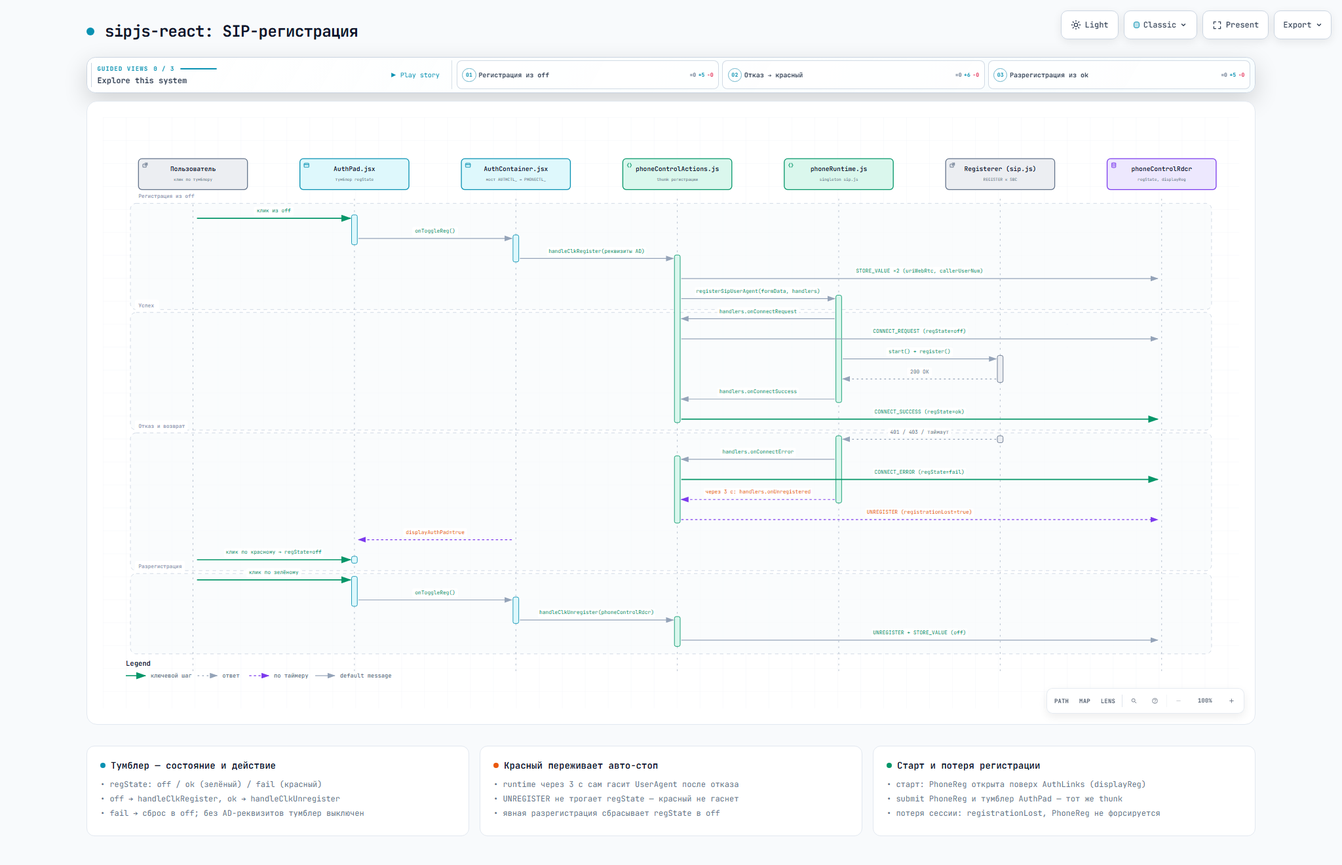
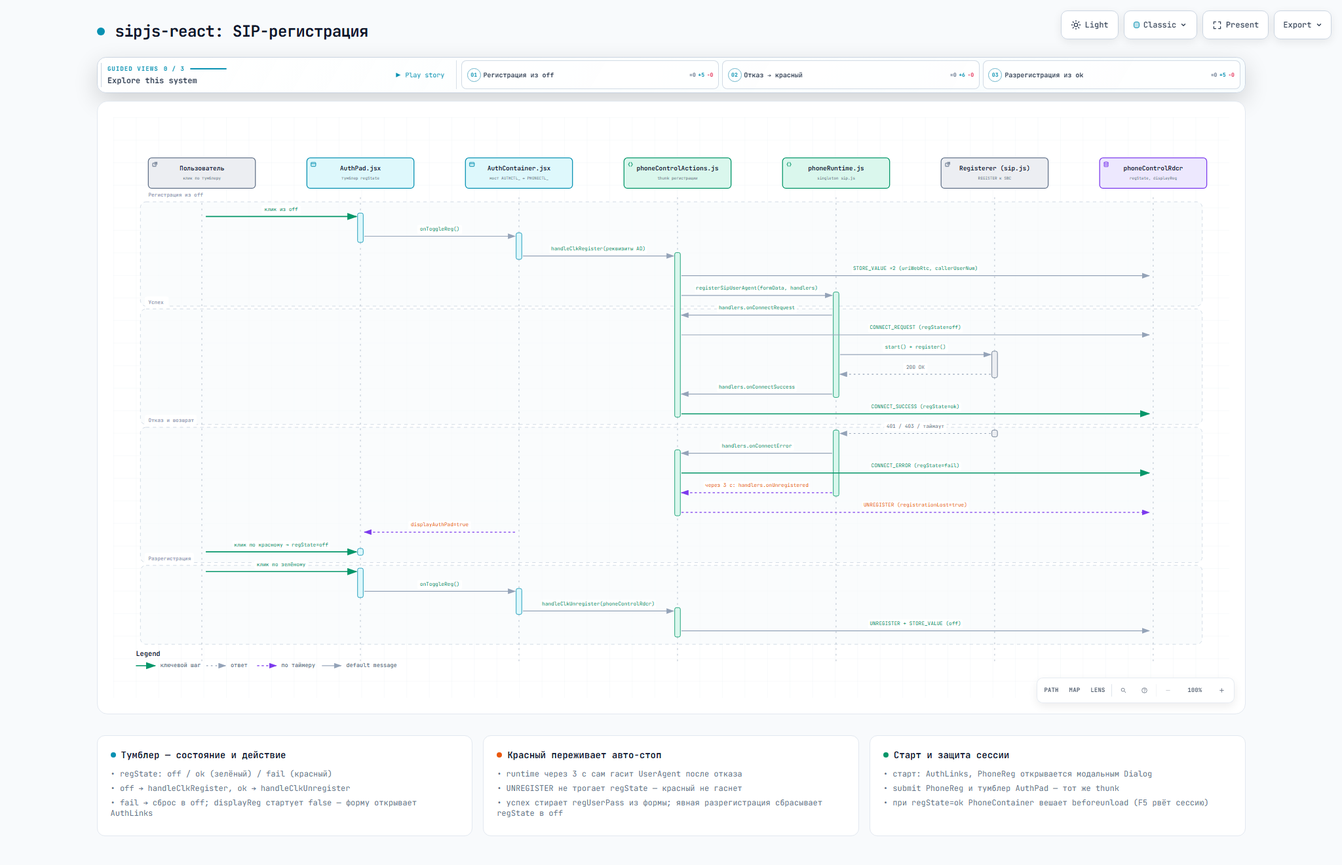
пофиксил диаграмму доку

diff --git a/docs/archify/sipjs-react-architecture.html b/docs/archify/sipjs-react-architecture.html
@@ -4840,8 +4840,8 @@
       </div>
     </div>
 
-    <script id="archify-guided-views-data" type="application/json">[{"id":"main-flow","label":"Основной поток данных","focus":["users","ui","containers","actions","runtime","sbc"],"note":"События UI проходят контейнеры и thunk-и, SIP-операции уходят в phoneRuntime и на SIP SBC по WSS."},{"id":"ad-bridge","label":"Мост AD → SIP","focus":["ad","actions","containers","store","ui"],"note":"AuthLinks открывает обе формы входа; AuthContainer — мост AUTHCTL_ ↔ PHONECTL_, тумблер AuthPad отражает regState (off / ok / fail)."},{"id":"livekit-path","label":"Ветка LiveKit","focus":["actions","ui","lkRuntime","livekit"],"note":"handleLkTokenSubmit берёт lk_token, LkMeet через lkRuntime подключается к комнате LiveKit."},{"id":"state-and-storage","label":"Состояние и хранилища","focus":["store","storage","actions","runtime"],"note":"Слой store собирает сид из сервисов, Redux хранит UI-состояние, звонки и чат персистятся в localStorage."}]</script>
-    <script id="archify-source-evidence-data" type="application/json">{"schemaVersion":1,"verified":true,"repository":{"url":"https://github.com/ars-anosov/sipjs-react","revision":"8d453dceb0cea81775ffbc2189b6a858b2866d38","shortRevision":"8d453dc"},"referenceCount":15,"nodes":{"ui":[{"path":"src/components/AuthLinks.jsx","line":17,"label":"стартовый экран","href":"https://github.com/ars-anosov/sipjs-react/blob/8d453dceb0cea81775ffbc2189b6a858b2866d38/src/components/AuthLinks.jsx#L17"},{"path":"src/components/PhonePad.jsx","line":52,"label":"телефон","href":"https://github.com/ars-anosov/sipjs-react/blob/8d453dceb0cea81775ffbc2189b6a858b2866d38/src/components/PhonePad.jsx#L52"},{"path":"src/components/LkMeet.jsx","line":228,"label":"встреча","href":"https://github.com/ars-anosov/sipjs-react/blob/8d453dceb0cea81775ffbc2189b6a858b2866d38/src/components/LkMeet.jsx#L228"}],"containers":[{"path":"src/containers/AuthContainer.jsx","line":70,"label":"мост AUTHCTL_ ↔ PHONECTL_","href":"https://github.com/ars-anosov/sipjs-react/blob/8d453dceb0cea81775ffbc2189b6a858b2866d38/src/containers/AuthContainer.jsx#L70"},{"path":"src/containers/PhoneContainer.jsx","line":16,"label":"домен phoneControlRdcr","href":"https://github.com/ars-anosov/sipjs-react/blob/8d453dceb0cea81775ffbc2189b6a858b2866d38/src/containers/PhoneContainer.jsx#L16"}],"actions":[{"path":"src/actions/authControlActions.js","line":15,"label":"handleAdRegister","href":"https://github.com/ars-anosov/sipjs-react/blob/8d453dceb0cea81775ffbc2189b6a858b2866d38/src/actions/authControlActions.js#L15"},{"path":"src/actions/phoneControlActions.js","line":99,"label":"handleClkRegister","href":"https://github.com/ars-anosov/sipjs-react/blob/8d453dceb0cea81775ffbc2189b6a858b2866d38/src/actions/phoneControlActions.js#L99"},{"path":"src/actions/phoneControlActions.js","line":434,"label":"SIP MESSAGE","href":"https://github.com/ars-anosov/sipjs-react/blob/8d453dceb0cea81775ffbc2189b6a858b2866d38/src/actions/phoneControlActions.js#L434"}],"runtime":[{"path":"src/services/phoneRuntime.js","line":336,"label":"registerSipUserAgent","href":"https://github.com/ars-anosov/sipjs-react/blob/8d453dceb0cea81775ffbc2189b6a858b2866d38/src/services/phoneRuntime.js#L336"}],"store":[{"path":"src/store/preloadedState.js","line":14,"label":"сид из сервисов","href":"https://github.com/ars-anosov/sipjs-react/blob/8d453dceb0cea81775ffbc2189b6a858b2866d38/src/store/preloadedState.js#L14"},{"path":"src/store/configureStore.js","line":21,"label":"thunk + logger","href":"https://github.com/ars-anosov/sipjs-react/blob/8d453dceb0cea81775ffbc2189b6a858b2866d38/src/store/configureStore.js#L21"}],"storage":[{"path":"src/services/phoneStorage.js","line":15,"label":"настройки телефона","href":"https://github.com/ars-anosov/sipjs-react/blob/8d453dceb0cea81775ffbc2189b6a858b2866d38/src/services/phoneStorage.js#L15"}],"ad":[{"path":"src/services/adAuth.js","line":41,"label":"loginAd → POST uriAdAuth","href":"https://github.com/ars-anosov/sipjs-react/blob/8d453dceb0cea81775ffbc2189b6a858b2866d38/src/services/adAuth.js#L41"}],"dir":[{"path":"src/services/phoneDirectory.js","line":11,"label":"fetchPhoneDir","href":"https://github.com/ars-anosov/sipjs-react/blob/8d453dceb0cea81775ffbc2189b6a858b2866d38/src/services/phoneDirectory.js#L11"}],"lkRuntime":[{"path":"src/services/lkRuntime.js","line":5,"label":"getLiveKitRoom","href":"https://github.com/ars-anosov/sipjs-react/blob/8d453dceb0cea81775ffbc2189b6a858b2866d38/src/services/lkRuntime.js#L5"}]}}</script>
+    <script id="archify-guided-views-data" type="application/json">[{"id":"main-flow","label":"Основной поток данных","focus":["users","ui","containers","actions","runtime","sbc"],"note":"События UI проходят контейнеры и thunk-и, SIP-операции уходят в phoneRuntime и на SIP SBC по WSS."},{"id":"ad-bridge","label":"Мост AD → SIP","focus":["ad","actions","containers","store","ui"],"note":"AuthLinks открывает SIP-форму (displayReg); AD-форма живёт в AuthContainer — мост AUTHCTL_ ↔ PHONECTL_, тумблер AuthPad по regState."},{"id":"livekit-path","label":"Ветка LiveKit","focus":["actions","ui","lkRuntime","livekit"],"note":"handleLkTokenSubmit берёт lk_token, LkMeet через lkRuntime подключается к комнате LiveKit."},{"id":"state-and-storage","label":"Состояние и хранилища","focus":["store","storage","actions","runtime"],"note":"Слой store собирает сид из сервисов, Redux хранит UI-состояние, звонки и чат персистятся в localStorage."}]</script>
+    <script id="archify-source-evidence-data" type="application/json">{"schemaVersion":1,"verified":true,"repository":{"url":"https://github.com/ars-anosov/sipjs-react","revision":"9bebf74019c6374eb574e450f23298f3e978bed4","shortRevision":"9bebf74"},"referenceCount":15,"nodes":{"ui":[{"path":"src/components/AuthLinks.jsx","line":17,"label":"стартовый экран","href":"https://github.com/ars-anosov/sipjs-react/blob/9bebf74019c6374eb574e450f23298f3e978bed4/src/components/AuthLinks.jsx#L17"},{"path":"src/components/PhonePad.jsx","line":52,"label":"телефон","href":"https://github.com/ars-anosov/sipjs-react/blob/9bebf74019c6374eb574e450f23298f3e978bed4/src/components/PhonePad.jsx#L52"},{"path":"src/components/LkMeet.jsx","line":228,"label":"встреча","href":"https://github.com/ars-anosov/sipjs-react/blob/9bebf74019c6374eb574e450f23298f3e978bed4/src/components/LkMeet.jsx#L228"}],"containers":[{"path":"src/containers/AuthContainer.jsx","line":70,"label":"мост AUTHCTL_ ↔ PHONECTL_","href":"https://github.com/ars-anosov/sipjs-react/blob/9bebf74019c6374eb574e450f23298f3e978bed4/src/containers/AuthContainer.jsx#L70"},{"path":"src/containers/PhoneContainer.jsx","line":16,"label":"домен phoneControlRdcr","href":"https://github.com/ars-anosov/sipjs-react/blob/9bebf74019c6374eb574e450f23298f3e978bed4/src/containers/PhoneContainer.jsx#L16"}],"actions":[{"path":"src/actions/authControlActions.js","line":15,"label":"handleAdRegister","href":"https://github.com/ars-anosov/sipjs-react/blob/9bebf74019c6374eb574e450f23298f3e978bed4/src/actions/authControlActions.js#L15"},{"path":"src/actions/phoneControlActions.js","line":99,"label":"handleClkRegister","href":"https://github.com/ars-anosov/sipjs-react/blob/9bebf74019c6374eb574e450f23298f3e978bed4/src/actions/phoneControlActions.js#L99"},{"path":"src/actions/phoneControlActions.js","line":434,"label":"SIP MESSAGE","href":"https://github.com/ars-anosov/sipjs-react/blob/9bebf74019c6374eb574e450f23298f3e978bed4/src/actions/phoneControlActions.js#L434"}],"runtime":[{"path":"src/services/phoneRuntime.js","line":336,"label":"registerSipUserAgent","href":"https://github.com/ars-anosov/sipjs-react/blob/9bebf74019c6374eb574e450f23298f3e978bed4/src/services/phoneRuntime.js#L336"}],"store":[{"path":"src/store/preloadedState.js","line":14,"label":"сид из сервисов","href":"https://github.com/ars-anosov/sipjs-react/blob/9bebf74019c6374eb574e450f23298f3e978bed4/src/store/preloadedState.js#L14"},{"path":"src/store/configureStore.js","line":21,"label":"thunk + logger","href":"https://github.com/ars-anosov/sipjs-react/blob/9bebf74019c6374eb574e450f23298f3e978bed4/src/store/configureStore.js#L21"}],"storage":[{"path":"src/services/phoneStorage.js","line":15,"label":"настройки телефона","href":"https://github.com/ars-anosov/sipjs-react/blob/9bebf74019c6374eb574e450f23298f3e978bed4/src/services/phoneStorage.js#L15"}],"ad":[{"path":"src/services/adAuth.js","line":41,"label":"loginAd → POST uriAdAuth","href":"https://github.com/ars-anosov/sipjs-react/blob/9bebf74019c6374eb574e450f23298f3e978bed4/src/services/adAuth.js#L41"}],"dir":[{"path":"src/services/phoneDirectory.js","line":11,"label":"fetchPhoneDir","href":"https://github.com/ars-anosov/sipjs-react/blob/9bebf74019c6374eb574e450f23298f3e978bed4/src/services/phoneDirectory.js#L11"}],"lkRuntime":[{"path":"src/services/lkRuntime.js","line":5,"label":"getLiveKitRoom","href":"https://github.com/ars-anosov/sipjs-react/blob/9bebf74019c6374eb574e450f23298f3e978bed4/src/services/lkRuntime.js#L5"}]}}</script>
     <div class="guided-views no-print" id="guided-views" hidden aria-label="Guided diagram views">
       <button id="guided-view-prev" type="button" aria-label="Previous guided view" title="Previous guided view ([)">&#8592;</button>
       <div class="guided-view-copy">
@@ -5364,8 +5364,8 @@
           <h3>Стартовый экран и владение рендером</h3>
         </div>
         <ul>
-          <li>&bull; на старте displayReg=true: модальная форма SIP открыта поверх блока AuthLinks</li>
-          <li>&bull; AuthLinks виден, пока status ≠ success и regState ≠ ok; ссылки открывают формы AD и SIP</li>
+          <li>&bull; на старте displayReg=false: виден AuthLinks; клик открывает PhoneReg модальным Dialog</li>
+          <li>&bull; AuthLinks виден, пока authStatus ≠ success и regState ≠ ok; иконка AD-формы закомментирована</li>
           <li>&bull; владение по срезу: AuthContainer — AuthLinks/AuthAd/AuthPad, PhoneContainer — PhoneReg/PhonePad/PhoneHistory/PhoneChat</li>
         </ul>
       </div>
@@ -5373,12 +5373,12 @@
       <div class="card">
         <div class="card-header">
           <div class="card-dot violet"></div>
-          <h3>Мост AD → SIP и состояние</h3>
+          <h3>Мост AD → SIP и защита сессии</h3>
         </div>
         <ul>
           <li>&bull; handleAdRegister → adAuth.loginAd → POST uriAdAuth → AUTHCTL_SUBMIT_SUCCESS</li>
-          <li>&bull; тумблер AuthPad трёхпозиционный по regState (off / ok / fail)</li>
-          <li>&bull; authTimeoutMiddleware раз в 10 с проверяет AD-сессию (24 ч); ky и localStorage только в services/</li>
+          <li>&bull; тумблер AuthPad трёхпозиционный по regState (off / ok / fail); успех стирает regUserPass из формы</li>
+          <li>&bull; при regState=ok PhoneContainer вешает beforeunload: F5 рвёт SIP-сессию в памяти singleton phoneRuntime</li>
         </ul>
       </div>
     </div>

diff --git a/docs/archify/sipjs-react-sip-registration.html b/docs/archify/sipjs-react-sip-registration.html
@@ -4840,7 +4840,7 @@
       </div>
     </div>
 
-    <script id="archify-guided-views-data" type="application/json">[{"id":"start-registration","label":"Регистрация из off","focus":["user","authpad","authcont","actions","runtime"],"note":"Форма PhoneReg открыта на старте (displayReg=true); тумблер AuthPad из off запускает handleClkRegister с реквизитами AD."},{"id":"reject-and-red","label":"Отказ → красный","focus":["registerer","runtime","actions","rdcr","authcont","authpad"],"note":"Отказ даёт regState=fail; PhoneReg не форсируется, показывается AuthPad."},{"id":"unregister","label":"Разрегистрация из ok","focus":["user","authpad","authcont","actions","rdcr"],"note":"Клик по зелёному тумблеру разрегистрирует сессию и возвращает regState в off."}]</script>
+    <script id="archify-guided-views-data" type="application/json">[{"id":"start-registration","label":"Регистрация из off","focus":["user","authpad","authcont","actions","runtime"],"note":"displayReg стартует false: сначала виден AuthLinks, форму PhoneReg открывает клик; из off тумблер AuthPad зовёт handleClkRegister."},{"id":"reject-and-red","label":"Отказ → красный","focus":["registerer","runtime","actions","rdcr","authcont","authpad"],"note":"Отказ даёт regState=fail; PhoneReg не форсируется, показывается AuthPad."},{"id":"unregister","label":"Разрегистрация из ok","focus":["user","authpad","authcont","actions","rdcr"],"note":"Клик по зелёному тумблеру разрегистрирует сессию и возвращает regState в off."}]</script>
 
     <div class="guided-views no-print" id="guided-views" hidden aria-label="Guided diagram views">
       <button id="guided-view-prev" type="button" aria-label="Previous guided view" title="Previous guided view ([)">&#8592;</button>
@@ -5445,7 +5445,7 @@
         <ul>
           <li>&bull; regState: off / ok (зелёный) / fail (красный)</li>
           <li>&bull; off → handleClkRegister, ok → handleClkUnregister</li>
-          <li>&bull; fail → сброс в off; без AD-реквизитов тумблер выключен</li>
+          <li>&bull; fail → сброс в off; displayReg стартует false — форму открывает AuthLinks</li>
         </ul>
       </div>
 
@@ -5457,19 +5457,19 @@
         <ul>
           <li>&bull; runtime через 3 с сам гасит UserAgent после отказа</li>
           <li>&bull; UNREGISTER не трогает regState — красный не гаснет</li>
-          <li>&bull; явная разрегистрация сбрасывает regState в off</li>
+          <li>&bull; успех стирает regUserPass из формы; явная разрегистрация сбрасывает regState в off</li>
         </ul>
       </div>
 
       <div class="card">
         <div class="card-header">
           <div class="card-dot emerald"></div>
-          <h3>Старт и потеря регистрации</h3>
+          <h3>Старт и защита сессии</h3>
         </div>
         <ul>
-          <li>&bull; старт: PhoneReg открыта поверх AuthLinks (displayReg)</li>
+          <li>&bull; старт: AuthLinks, PhoneReg открывается модальным Dialog</li>
           <li>&bull; submit PhoneReg и тумблер AuthPad — тот же thunk</li>
-          <li>&bull; потеря сессии: registrationLost, PhoneReg не форсируется</li>
+          <li>&bull; при regState=ok PhoneContainer вешает beforeunload (F5 рвёт сессию)</li>
         </ul>
       </div>
     </div>

diff --git a/docs/STATE.md b/docs/STATE.md
@@ -94,11 +94,11 @@ flowchart TD
 
 ## Мост к сервисам (`AuthContainer`)
 
-Thunk-и namespace-чистые: `authControlActions` не диспатчит `PHONECTL_`, `phoneControlActions` — `AUTHCTL_`. Оба моста `AUTHCTL_` ↔ `PHONECTL_` живут в `AuthContainer`; чужой срез thunk-и не читают через `getState()`, а получают нужные значения аргументом (`uriWebRtc` в `handleLkTokenSubmit`, `rdcr` в `handleClkRegister`/`handleSendMessage`). Остальные контейнеры только раздают срезы пропсами — `LkContainer` → `phoneControlRdcr` для формы приглашения `LkToken`. `AuthPad` рендерится по флагу `displayAuthPad` (строка меню; ✕ снимает флаг): `initialState` — `false`, `true` выставляется на `AUTHCTL_SUBMIT_SUCCESS`, сбрасывается на `AUTHCTL_CLEAR`. Поэтому на старте панели нет, а на экране — стартовый блок `AuthLinks` с двумя ссылками на формы входа (AD и SIP); после успеха AD панель появляется (при отсутствии AD-данных она информирует текстом). Её тумблер трёхпозиционный и отражает `phoneControlRdcr.regState` (`off` / `ok` — зелёный / `fail` — красный): выключенный тумблер заблокирован без пары `sip_username`/`sip_secret`, клик из `off` запускает регистрацию, из `ok` — разрегистрацию, из `fail` — возвращает в `off`. Потеря регистрации (`regState` → `fail`) дополнительно форсирует `displayAuthPad` — форма `PhoneReg` при этом не появляется, а красный тумблер AuthPad остаётся кликабельным (✕ панель всё равно закрывает: `displayAuthPad` намеренно не в зависимостях эффекта).
+Thunk-и namespace-чистые: `authControlActions` не диспатчит `PHONECTL_`, `phoneControlActions` — `AUTHCTL_`. Оба моста `AUTHCTL_` ↔ `PHONECTL_` живут в `AuthContainer`; чужой срез thunk-и не читают через `getState()`, а получают нужные значения аргументом (`uriWebRtc` в `handleLkTokenSubmit`, `rdcr` в `handleClkRegister`/`handleSendMessage`). Остальные контейнеры только раздают срезы пропсами — `LkContainer` → `phoneControlRdcr` для формы приглашения `LkToken`. `AuthPad` рендерится по флагу `displayAuthPad` (строка меню; ✕ снимает флаг): `initialState` — `false`, `true` выставляется на `AUTHCTL_SUBMIT_SUCCESS`, сбрасывается на `AUTHCTL_CLEAR`. Поэтому на старте панели нет, а на экране — стартовый блок `AuthLinks` с иконкой-входом в SIP-форму (иконка AD-формы закомментирована, а сама `AuthAd` рендерится по `displayAd` или `errComponent === "AuthAd"`); после успеха AD панель появляется (при отсутствии AD-данных она информирует текстом). Её тумблер трёхпозиционный и отражает `phoneControlRdcr.regState` (`off` / `ok` — зелёный / `fail` — красный): выключенный тумблер заблокирован без пары `sip_username`/`sip_secret`, клик из `off` запускает регистрацию, из `ok` — разрегистрацию, из `fail` — возвращает в `off`. Потеря регистрации (`regState` → `fail`) дополнительно форсирует `displayAuthPad` — форма `PhoneReg` при этом не появляется, а красный тумблер AuthPad остаётся кликабельным (✕ панель всё равно закрывает: `displayAuthPad` намеренно не в зависимостях эффекта).
 
-Владение рендером — по срезу: `AuthContainer` (домен `authControlRdcr`, плюс стартовые ссылки на обе формы и мост) держит форму `AuthAd` (флаг `displayAd` или `errComponent === "AuthAd"`), `AuthPad` и `AuthLinks`; `PhoneContainer` (домен `phoneControlRdcr`) рендерит форму входа `PhoneReg` (флаг `displayReg` или `errComponent === "PhoneReg"`) и рабочие блоки `PhonePad` / `PhoneHistory` / `PhoneChat`, auth-срез не читает. Обе формы входа — модальный `Dialog` в портале, вне потока документа, поэтому их показ не раздвигает вёрстку; чужие срезы читает лишь `AuthContainer` — как мост.
+Владение рендером — по срезу: `AuthContainer` (домен `authControlRdcr`, плюс стартовый блок `AuthLinks` и мост) держит форму `AuthAd` (флаг `displayAd` или `errComponent === "AuthAd"`), `AuthPad` и `AuthLinks`; `PhoneContainer` (домен `phoneControlRdcr`) рендерит форму входа `PhoneReg` (флаг `displayReg` или `errComponent === "PhoneReg"`) и рабочие блоки `PhonePad` / `PhoneHistory` / `PhoneChat`, auth-срез не читает. Обе формы входа — модальный `Dialog` в портале, вне потока документа, поэтому их показ не раздвигает вёрстку; чужие срезы читает лишь `AuthContainer` — как мост.
 
-Стартовый экран: пока `authControlRdcr.status !== "success"` и `phoneControlRdcr.regState !== "ok"`, виден только блок `AuthLinks` (иконки-входы в обе формы; сами ничего не диспатчат — колбэки `AuthContainer` пишут каждый в свой срез). Успех AD → `AuthPad`, успешная SIP-регистрация → телефон (`displayPad` на `PHONECTL_CONNECT_SUCCESS`); заголовок `App` — flex-колонка на высоту экрана, поэтому стартовый блок центрируется между AppBar и футером.
+Стартовый экран: пока `authControlRdcr.status !== "success"` и `phoneControlRdcr.regState !== "ok"`, виден только блок `AuthLinks` (иконка-вход в SIP-форму; сам ничего не диспатчит — колбэк `AuthContainer` пишет в `phoneControlRdcr`). Успех AD → `AuthPad`, успешная SIP-регистрация → телефон (`displayPad` на `PHONECTL_CONNECT_SUCCESS`); заголовок `App` — flex-колонка на высоту экрана, поэтому стартовый блок центрируется между AppBar и футером.
 
 ```mermaid
 sequenceDiagram
@@ -112,7 +112,7 @@ sequenceDiagram
   participant Dispatch@{ "type" : "collections", "alias": "authControlRdcr / phoneControlRdcr" }
 
   Note over User,Dispatch: Старт: displayAd=false, displayAuthPad=false, displayReg=false, regState=off
-  Note over User,Dispatch: на экране только ссылки AuthLinks — входы в обе формы
+  Note over User,Dispatch: на экране только AuthLinks — иконка-вход в SIP-форму
 
   User->>AuthAd: Ввод AD-логина и пароля
   AuthAd->>AuthAct: handleAdRegister(formData)
